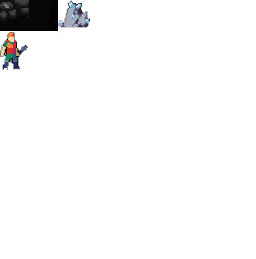
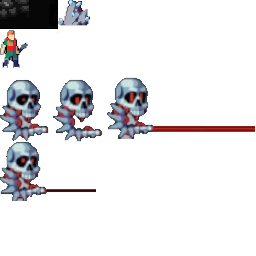
mine ajout boss

diff --git a/main.py b/main.py
@@ -4,6 +4,7 @@ from quests import interact, launch_quest
 from get_jsondata import get_quests, get_player, get_spells, get_pnj
 from write import changeJson
 from spawn import spawn_ressources
+import time
 
 run_sprite = [(48, 0, 38, 58), (88, 0, 29, 56), (120, 0, 32, 56),
               (152, 0, 33, 50), (192, 0, 43, 51), (0, 64, 31, 51)]
@@ -11,6 +12,7 @@ jump_sprite = [(0, 120, 28, 53), (32, 120, 36, 56), (72, 120, 31, 50),
                (104, 120, 32, 60), (136, 120, 38, 53), (176, 120, 25, 46)]
 fireball_sprite = [(0, 184, 32, 56), (32, 184, 39, 56), (72, 184, 48, 53),
                    (120, 184, 50, 53)]
+great_boss_sprite = [(0,80,48,62),(54,80,49,61),(107,80,149,63), (0,142,96,59)]
 
 pal = [0x1b2954,0x8c938c,0x5a3936,0x28222c,0x4c505b,0x73522d,
        0x83604f,0x3c4c54,0xc49892,0x3c445c,0x6c6e6c,0x7c706a,
@@ -55,6 +57,8 @@ block_left = False
 block_right = False
 
 completion = 0
+
+great_boss_attack = False
 
 ressources_mine = spawn_ressources(0,2900,platform_mine)
 
@@ -125,13 +129,13 @@ def update():
   velocity_y = min(velocity_y, 5)
   if dimension == "mine":
     if direction == 1:
-      if y >= 256-get_ground_height(perso_x+25)*30-58: 
+      if y >= 256-get_ground_height(perso_x+25)*29-58: 
           is_jumping = False
-          y = 256-get_ground_height(perso_x+25)*30-58
+          y = 256-get_ground_height(perso_x+25)*29-58
     elif direction == -1:
-      if y >= 256-get_ground_height(perso_x)*30-58: 
+      if y >= 256-get_ground_height(perso_x)*29-58: 
             is_jumping = False
-            y = 256-get_ground_height(perso_x)*30-58
+            y = 256-get_ground_height(perso_x)*29-58
   else:
     if y >= 169:
       is_jumping = False
@@ -244,7 +248,7 @@ def update():
       game_launched = True
 
 def draw():
-  global input_text
+  global input_text, great_boss_attack
   if game_launched == False:
     pyxel.text(100, 10, "Ethereal Odyssey", 12)
     pyxel.text(40,100,"Press [E] to play (full screen highly recommended)", 12)
@@ -255,9 +259,6 @@ def draw():
       for i in range(20):
         pyxel.blt(256*i, 0, 1, 0,0,256,256)
 
-      for elt in ressources_mine:
-        pyxel.blt(elt[0], elt[1], 2, 58, 0, 33,29,21)
-
       for elt in pnj_list:
         if(type(elt["location_x"]) != list):
           pyxel.blt(elt["position_x"], elt["position_y"], elt["image_bank"], elt["location_x"], elt["location_y"], elt["size_x"], elt["size_y"], 21)
@@ -265,15 +266,28 @@ def draw():
           if (elt["interactable"] == True and is_inside[elt["name"]] == True and elt["name"] == characters_quest):
             pyxel.text(elt["position_x"]-20, 140, "Press [E] to interact", 21)
         
-      if questNumber == 2.4:
+      if questNumber == 2.4 and get_quests()[2]["deploy"][3]["completion"] != 5:
         for elt in ressources_mine:
+          pyxel.blt(elt[0], elt[1], 2, 58, 0, 33,29,21)
           is_inside_mine = interact(perso_x, elt[0])
           if(is_inside_mine):
             pyxel.text(elt[0], 140, "[E] Mine", 21)
             if(pyxel.btnp(pyxel.KEY_E)):
               changeJson("2/deploy/3/completion", completion+1, "data/quests.json")
               ressources_mine.remove(elt)
-
+      elif questNumber == 2.6:
+        coef = pyxel.frame_count // 4 % 4
+        if great_boss_attack == False:
+          pyxel.blt(1500, 130, 2, great_boss_sprite[0][0], great_boss_sprite[0][1],
+              great_boss_sprite[0][2]*-1, great_boss_sprite[0][3], 21)
+          is_inside_gb = interact(perso_x, 1450)
+          if(is_inside_gb):
+            pyxel.text(1500, 100, "[E] Attack", 21)
+            if(pyxel.btnp(pyxel.KEY_E)):
+              great_boss_attack = True
+        else:
+          pyxel.blt(1500, 130, 2, great_boss_sprite[coef][0], great_boss_sprite[coef][1],
+              great_boss_sprite[coef][2]*-1, great_boss_sprite[coef][3], 21)
 
       for tuple in platform_mine:
         x1 = tuple[0]
@@ -281,10 +295,10 @@ def draw():
         tup_y = tuple[2]
         coef_ind = (x2-x1) // 29
         for i in range(coef_ind):
-          pyxel.blt(x1+29*i,256-30*tup_y,2,0,0,29,30,21)
+          pyxel.blt(x1+29*i,256-29*tup_y,2,0,0,29,29,21)
           if tuple[2] != 1:
             for j in range(1,tup_y):
-              pyxel.blt(x1+29*i,256-30*j,2,29,0,29,30,21)
+              pyxel.blt(x1+29*i,256-29*j,2,29,0,29,29,21)
             
 
   #Animation
